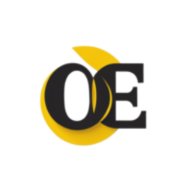
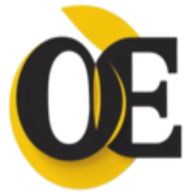
minor changes

diff --git a/src/components/Header.jsx b/src/components/Header.jsx
@@ -57,12 +57,12 @@ const Header = () => {
       animate={{ y: showNavbar ? 0 : -100 }}
       transition={{ duration: 0.3, ease: "easeInOut" }}
     className={`w-full sticky top-0 text-black dark:text-white md:p-4 z-50 ${backdropFilter? 'backdrop-blur-md' : '' }`}>
-      <div className="flex flex-row items-center justify-between">
-      <a href="" className="text-2xl font-bold"><img src="/logo.png" alt="" className='w-[67px] md:w-[72px] h-[57px] md:h-[62px] dark:invert'/></a>
+      <div className="flex flex-row items-center justify-between max-sm:p-4">
+      <a href="" className="text-2xl font-bold"><img src="/logo.png" alt="" className='w-[45px] md:w-[55px] h-[36px] md:h-[46px] dark:invert'/></a>
       <DarkModeToggling />
 
       <button 
-      className="block max-md:pr-2.5 cursor-pointer md:hidden"
+      className="block cursor-pointer md:hidden"
       onClick={() => setIsOpen(!isOpen)}>
             {isOpen ? <MdMenuOpen className='text-3xl' /> : <MdMenu className='text-3xl' />}
             
@@ -77,10 +77,9 @@ const Header = () => {
       >
       <li>
                   <Link href='#'
-                  className={`block ${isOpen ? "" : "max-md:hidden"} pt-2 pb-2 
+                  className={`block ${isOpen ? "" : "max-md:hidden"} pt-2 pb-2
                   hover:text-black 
-                  dark:hover:text-teal-200
-                  dark:hover:md:text-amber-500`} 
+                  hover:md:text-amber-500`} 
                   to='home'
                   smooth={true} 
                   offset={-80}
@@ -94,8 +93,7 @@ const Header = () => {
                   <Link href='#' 
                   className={`block ${isOpen ? "delay-300" : "max-md:hidden"}  pt-2 pb-2 
                   hover:text-black
-                  dark:hover:text-teal-200
-                  dark:hover:md:text-amber-500`}
+                hover:md:text-amber-500`}
                   to='about'
                   smooth={true} 
                   offset={-80}
@@ -107,9 +105,9 @@ const Header = () => {
 
             <li>
                   <Link href='#' 
-                  className={`block ${isOpen ? "delay-300" : "max-md:hidden"}   pt-2 pb-2 hover:text-black
-                  dark:hover:text-teal-200
-                  dark:hover:md:text-amber-500`}
+                  className={`block ${isOpen ? "delay-300" : "max-md:hidden"} pt-2 pb-2
+                  hover:text-black 
+                hover:md:text-amber-500`}
                   to='education'
                   smooth={true} 
                   offset={-80}
@@ -121,9 +119,9 @@ const Header = () => {
 
             <li>
                   <Link href='#' 
-                  className={`block ${isOpen ? "delay-300" : "max-md:hidden"}   pt-2 pb-2 hover:text-black
-                  dark:hover:text-teal-200
-                  dark:hover:md:text-amber-500`}
+                  className={`block ${isOpen ? "delay-300" : "max-md:hidden"}   pt-2 pb-2
+                  hover:text-black
+                  hover:md:text-amber-500`}
                   to='experience'
                   smooth={true} 
                   offset={-80}
@@ -133,12 +131,26 @@ const Header = () => {
                   </Link>
             </li>
 
-            <li>
+            <li className='max-md:hidden'>
                   <Link href='#' 
-                  className={`block ${isOpen ? "delay-300" : "max-md:hidden"}   pt-2 pb-2 hover:text-black
-                  dark:hover:text-teal-200
-                  dark:hover:md:text-amber-500`}
-                  to='projects'
+                  className={` ${isOpen ? "delay-300" : "max-md:hidden"} max-md:hidden  pt-2 pb-2
+                  hover:text-black 
+                  hover:md:text-amber-500`}
+                  to='proj'
+                  offset={144}
+                  smooth={true} 
+                  spy={true} 
+                  duration={500}>
+                  Projects
+                  </Link>
+            </li>
+
+            <li className='md:hidden'>
+                  <Link href='#' 
+                  className={`block ${isOpen ? "delay-300" : "max-md:hidden"} md:hidden  pt-2 pb-2
+                  hover:text-black 
+                  hover:md:text-amber-500`}
+                  to='projectsmobile'
                   smooth={true} 
                   spy={true} 
                   duration={500}>
@@ -148,9 +160,9 @@ const Header = () => {
 
             <li>
                   <Link href='#' 
-                  className={`block ${isOpen ? "delay-300" : "max-md:hidden"}   pt-2 pb-2 hover:text-black
-                  dark:hover:text-teal-200
-                  dark:hover:md:text-amber-500`}
+                  className={`block ${isOpen ? "delay-300" : "max-md:hidden"}  pt-2 pb-2
+                  hover:text-black 
+                  hover:md:text-amber-500`}
                   to='contact'
                   smooth={true} 
                   offset={-80}

diff --git a/src/data.js b/src/data.js
@@ -1,5 +1,5 @@
 export const STATS = [
-      {id: "01", count: "3", label: 'Years of \nExperience', style: "mr-5"},
+      {id: "01", count: "3", label: 'Years of \nExperience', style: "mr-4 md:mr-2 lg:mr-3"},
       {id: "02", count: "15", label: 'Projects \nCompleted'},
       {id: "03", count: "37", label: 'Happy \nClients'},
 ]
@@ -23,6 +23,6 @@ export const slides = [
     { category: "E-Commerce", name: "MVP Studio Enoverlab", color: "text-red-600", detail: "MVP Studio by Enoverlab is a secure, user-friendly platform that assists startups and innovators in rapidly turning ideas into minimum viable products (MVPs), offering guidance, acceleration, and actionable tools", img: "/mvpstudio.png", link: "https://mvpstudio.enoverlab.com" },
     { category: "HealthCare", name: "ThriveWell Healthcare", color: "text-red-600", detail: "Thrivewell Healthcare empowers individuals with chronic illnesses to live better, offering tailored support, education, and management solutions for conditions like diabetes and hypertension.", img: "/thrivewell.png", link: "https://thrivewellhealthcare.com" },
     { category: "AgricTech", name: "Next-gen Agribusiness", color: "text-red-600", detail: "NextGen Agribusiness is a forward-thinking agricultural platform offering innovative solutions, insights, and tools to help farmers scale operations, embrace agri-tech, and optimize productivity in modern farming.", img: "/nextgen.png", link: "https://nextgen-agribusiness.netlify.app/" },
-    { category: "E-Commerce", name: "Wish Girl", color: "text-red-600", detail: "WishStore is a modern e-commerce platform offering a wide range of clothes and accessories with features like fast delivery, secure payments, and reliable customer service.", img: "/wish.png", link: "https://wishstore.netlify.app/" },
+    { category: "E-Commerce", name: "Wish", color: "text-red-600", detail: "WishStore is a modern e-commerce platform offering a wide range of clothes and accessories with features like fast delivery, secure payments, and reliable customer service.", img: "/wish.png", link: "https://wishstore.netlify.app/" },
   ];
 

diff --git a/src/components/Hero.jsx b/src/components/Hero.jsx
@@ -28,9 +28,9 @@ const Hero = () => {
   </div>
   <div className='flex flex-col gap-8 lg:gap-12 xl:gap-16 max-md:mt-[300px]'>
     <div className='flex flex-col space-y-6 lg:space-y-7'>
-      <div className="flex flex-row items-center">
+      <div className="flex flex-row items-center max-sm:mx-auto">
                   <span className='inline-flex items-center px-2 py-0.5 rounded-full text-xs font-medium bg-indigo-900 text-amber-400 mr-2'>Hi!</span>
-                  <h2 className='inline-block px-3 py-1.5 lg:px-4 lg:py-2 rounded-full bg-neutral-900 text-amber-400 font-semibold text-sm backdrop-blur-sm border border-neutral-800/50'>
+                  <h2 className='inline-block px-3 py-1.5 lg:px-4 lg:py-2 rounded-full bg-neutral-900 text-amber-400 font-semibold text-[11px] sm:text-sm backdrop-blur-sm border border-neutral-800/50'>
                   <i className='bx bx-globe mr-1'></i>Web Developer/Research Writer</h2>
                 </div>
                 <h1 className='text-3xl md:text-5xl lg:text-6xl font-extrabold tracking-tight text-neutral-900 dark:text-white'>
@@ -62,7 +62,7 @@ const Hero = () => {
             <i className='bx bx-check-circle mr-1 text-amber-500 '></i>Responsive
           </div>
         </div> */}
-        <div className=" absolute top-25 right-[15%] lg:right-[20%] animate-bounce delay-300">
+        <div className=" absolute top-25 right-[10%] sm:right-[15%] lg:right-[20%] animate-bounce delay-300">
           <div className="bg-neutral-900 text-white px-2.5 py-1.5 rounded-lg text-xs lg:text-sm flex items-center shadow-lg dark:bg-white dark:text-neutral-900 md:mt-10">
             <i className='bx bx-check-circle mr-1 text-amber-500 '></i>Accessible
           </div>

diff --git a/src/components/Experience.jsx b/src/components/Experience.jsx
@@ -5,6 +5,7 @@ import { Element } from 'react-scroll'
 
 const Experience = () => {
   return (
+    <>
     <Element name='experience'>
     <section className='w-full' id='experience'>
     <motion.h1 
@@ -26,7 +27,7 @@ className="text-center text-4xl font-semibold pt-[42px] md:pb-[42px] pr-[24px] p
         <div className="grid grid-cols-1 gap-8  md:grid-cols-2 p-5 lg:px-15">
           {experiences.map((experience, idx) => (
         <motion.div
-      className="px-12 py-8 transition-colors duration-300 transform border-2 dark:border border-amber-500 rounded-xl group dark:border-gray-200 dark:feature-card feature-card-light hover:border-amber-600 min-h-[300px]"
+      className="px-4 sm:px-6 lg:px-12 py-8 transition-colors duration-300 transform border-2 dark:border border-amber-500 rounded-xl group dark:border-gray-200 dark:feature-card feature-card-light hover:border-amber-600 min-h-[300px]"
       initial={{ y: -30, opacity: 0 }}
       whileInView={{ y: 0, opacity: 1 }}
       viewport={{ once: false, amount: 0.1 }}
@@ -62,6 +63,7 @@ className="text-center text-4xl font-semibold pt-[42px] md:pb-[42px] pr-[24px] p
       </div>
     </section>
     </Element>
+    </>
   )
 }
 

diff --git a/src/App.jsx b/src/App.jsx
@@ -9,6 +9,7 @@ import Projects from './components/Projects'
 import Projectsmobile from './components/Projectsmobile'
 import Techicons from './components/Techicons'
 import Contact from './components/Contact'
+import Projecttitle from './components/Projecttitle'
 
 const App = () => {
   
@@ -27,7 +28,9 @@ const App = () => {
         <About />
         <Education/>
         <Experience/>
-        <div className='max-md:hidden'><Projects/></div>
+        <div className='max-md:hidden'>
+          <Projecttitle/>
+          <Projects/></div>
         <Projectsmobile/>
         <Techicons/>
         <Contact/>

diff --git a/src/components/Projects.jsx b/src/components/Projects.jsx
@@ -69,9 +69,7 @@ const Projects = () => {
   };
   return (
     <>
-    <Element name='projects'>
-    <h1
-    className="text-center text-4xl font-semibold pt-[32px] pb-[42px] pr-[24px] pl-[24px] mb-8 text-black dark:text-white" id='projects'>My Recent Projects</h1>
+    <Element>
     <div ref={container} className=" bg-[#f2f2f2] dark:bg-[#000000] projectscontainer">
       <div className='fixed flex flex-col gap-12 items-center justify-center h-screen max-lg:w-[8%] w-[10%] max-sm:hidden'>
         {slides.map((bullet, index) => (

diff --git a/src/components/StatInfoCard.jsx b/src/components/StatInfoCard.jsx
@@ -10,7 +10,7 @@ const StatInfoCard = ({count, label, style}) => {
   return (
     <div 
     ref={ref}
-    className='flex gap-3 md:gap-5 bg-amber-500 rounded-[14px] p-5 md:p-2 m-2 mx-auto max-sm:mb-2 w-full'>
+    className='flex gap-3 lg:gap-5 bg-amber-500 rounded-[14px] p-5 md:p-2 m-2 mx-auto max-sm:mb-2 w-full'>
       <h4 className={`text-4xl md:text-xl lg:text-3xl font-bold text-white dark:text-[#310e3a] p-2 max-sm:pl-4 ${style || ""}`}>{inView ? (
           <CountUp end={parseInt(count)} duration={5} />
         ) : (

diff --git a/src/components/Projecttitle.jsx b/src/components/Projecttitle.jsx
@@ -1,0 +1,18 @@
+import React from 'react'
+import { Element } from 'react-scroll'
+
+const Projecttitle = () => {
+  return (
+    <>
+    <Element
+    name='proj'>
+        <section>
+            <h1
+    className="text-center text-4xl font-semibold pt-[32px] pb-[42px] pr-[24px] pl-[24px] mb-8 text-black dark:text-white">My Recent Projects</h1>
+        </section>
+    </Element>
+    </>
+  )
+}
+
+export default Projecttitle

diff --git a/src/components/Projectsmobile.jsx b/src/components/Projectsmobile.jsx
@@ -6,8 +6,8 @@ import { slides } from '../data';
 const Projectsmobile = () => {
     return (
         <>
-        <Element name='projects'>
-        <section className='md:hidden w-full' id='projects'>
+        <Element name='projectsmobile'>
+        <section className='md:hidden w-full'>
             <motion.h1 
 initial={{ opacity:0, y:100 }}
 whileInView={{ opacity:1, y:0}}
